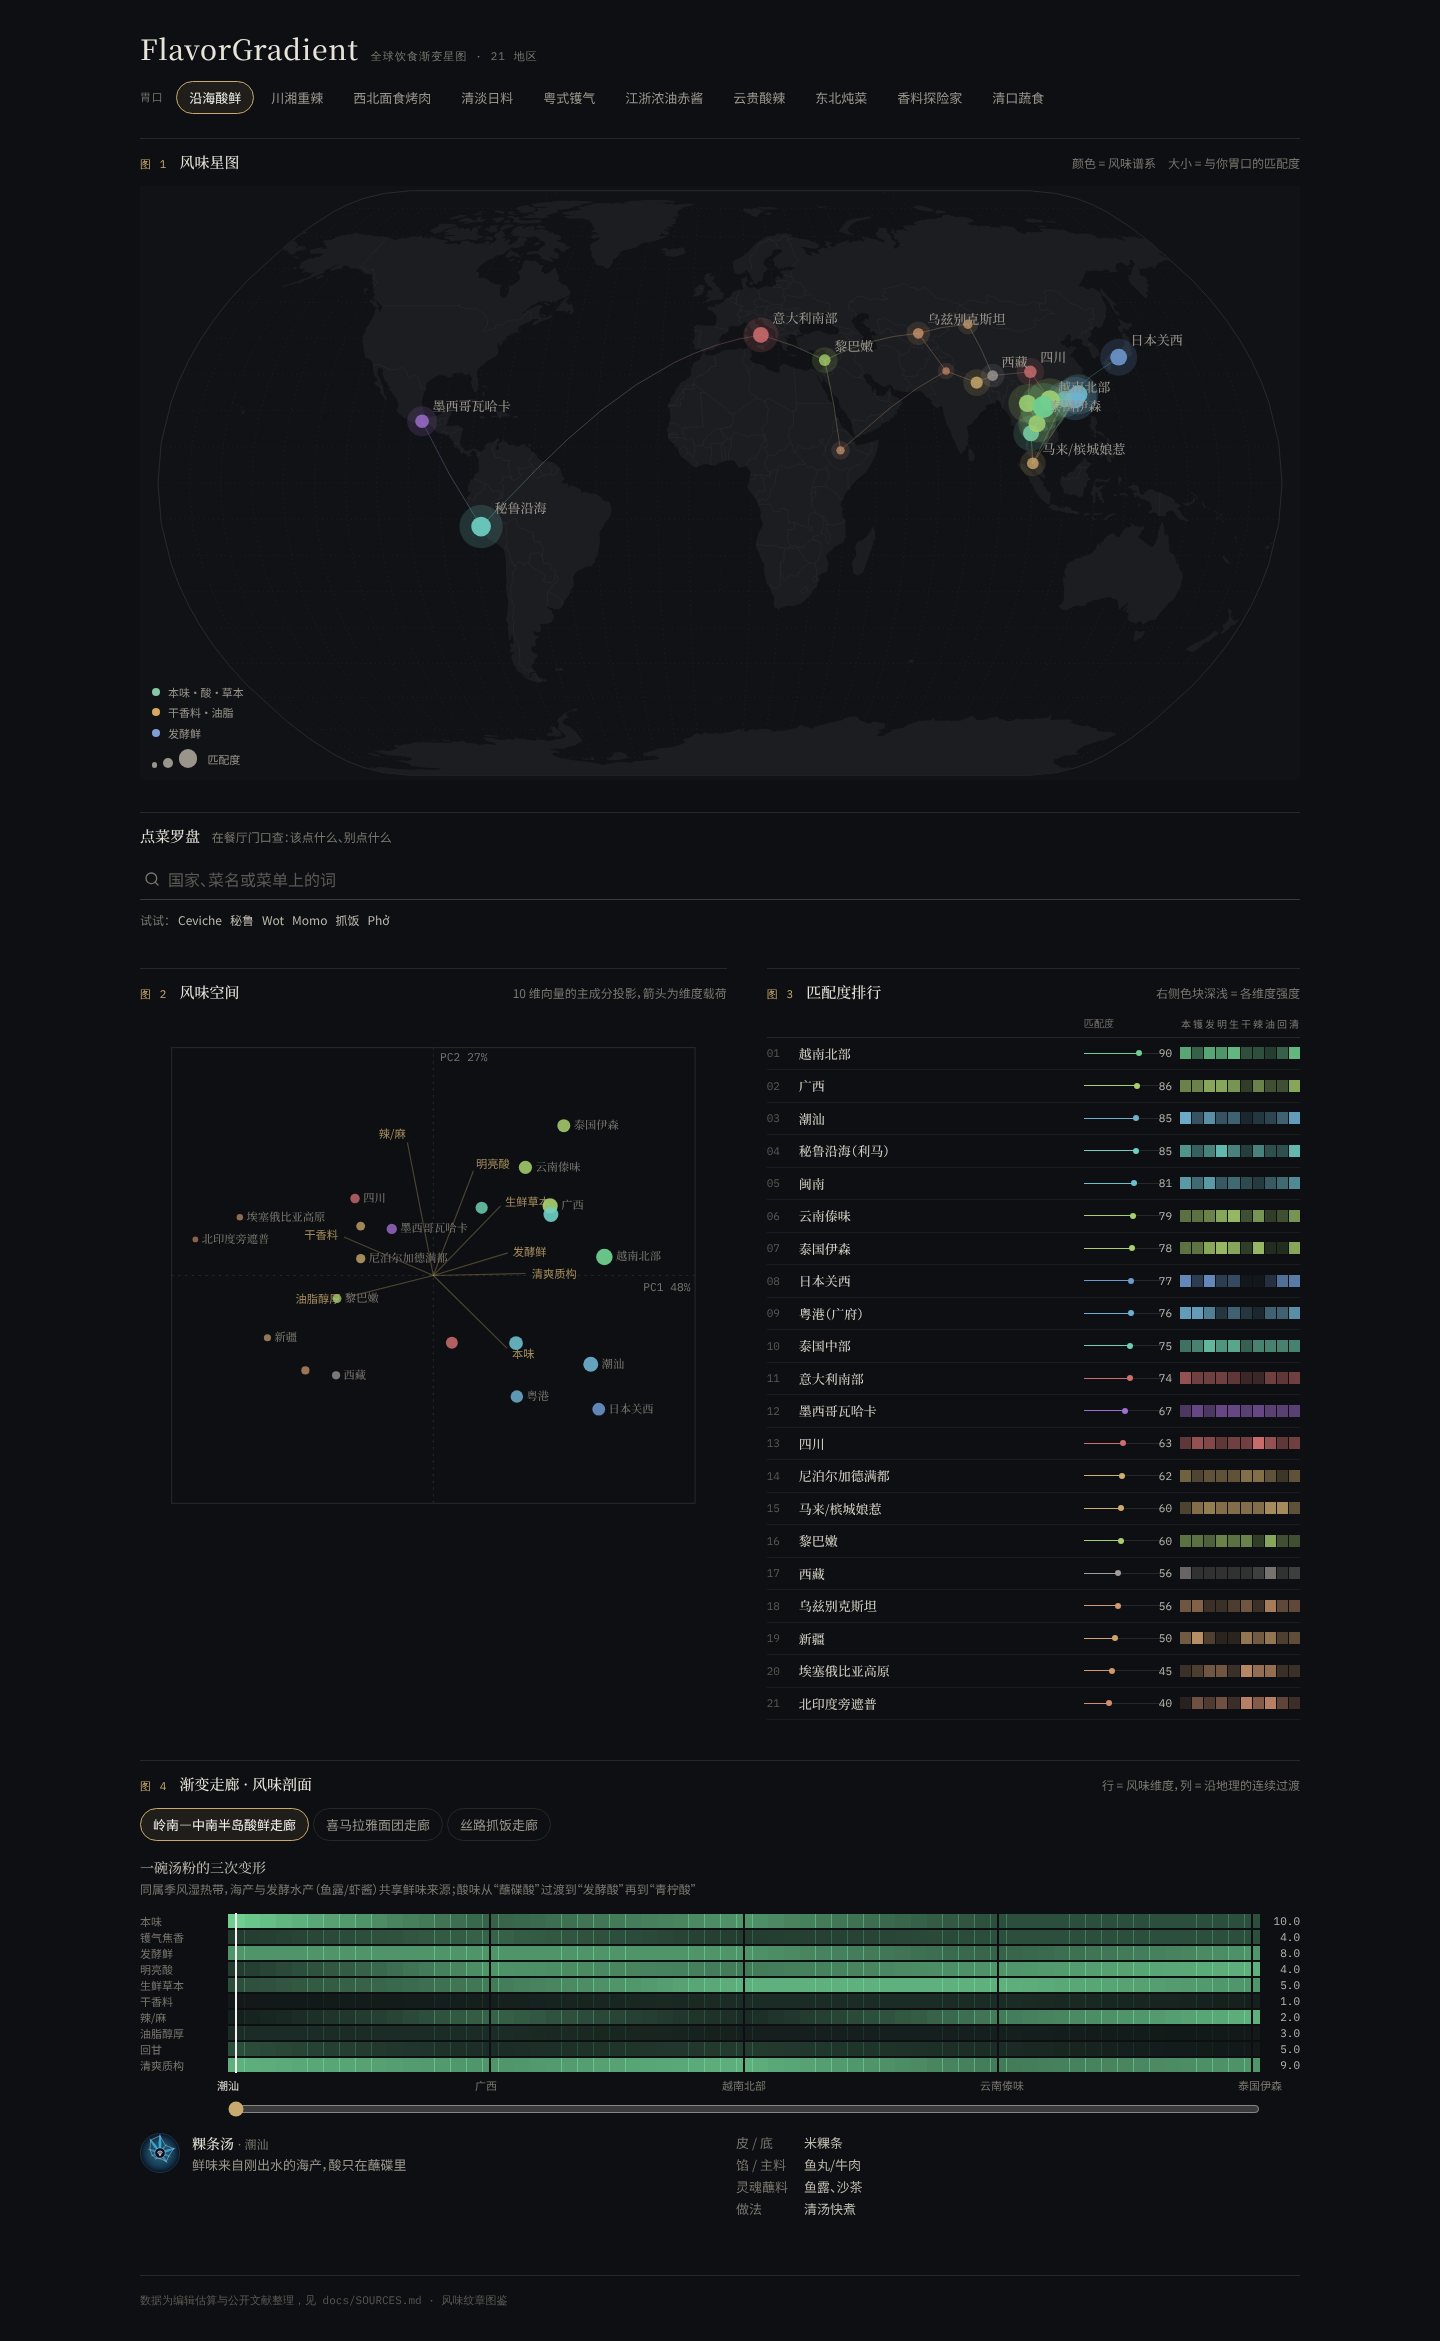
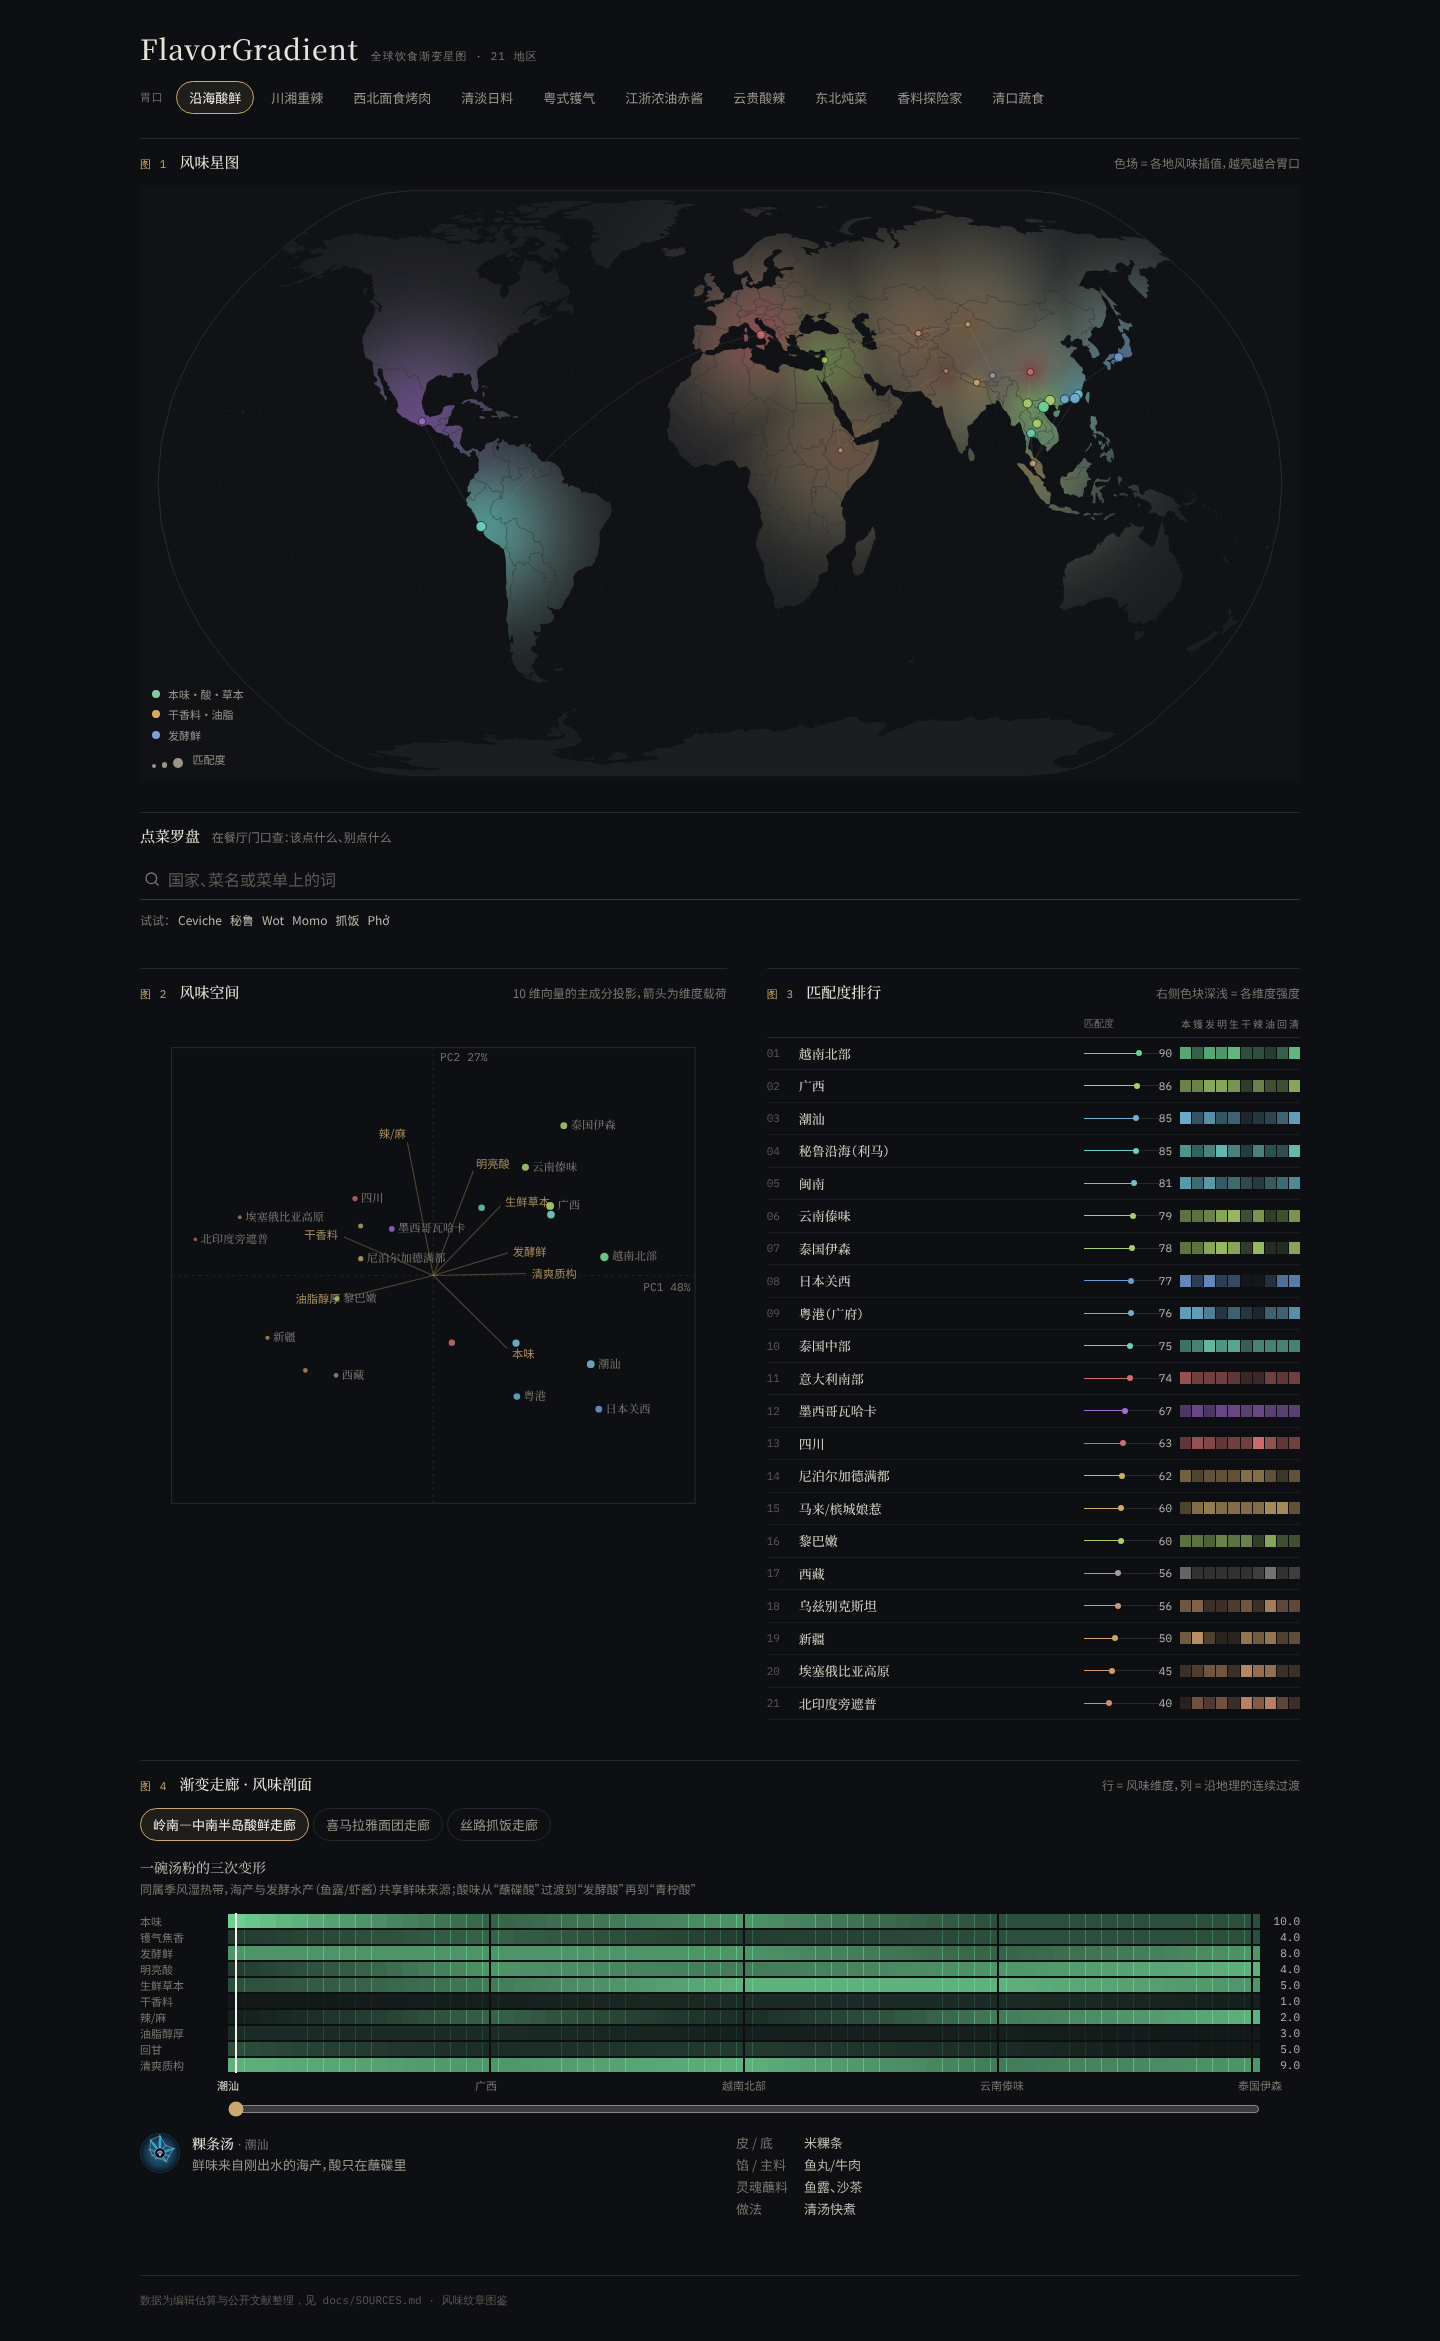
feat: add interpolated flavor gradient field to map, shrink dots and hide labels until selected
Claude-Session: https://claude.ai/code/session_01LU5Z3xEmQer5rLxphHY7Js

diff --git a/src/components/WorldMap.tsx b/src/components/WorldMap.tsx
@@ -8,6 +8,7 @@ import world from 'world-atlas/countries-110m.json';
 import type { CulinaryNode } from '../types/flavor';
 import { nodeTone } from '../lib/color';
 import { NodeDot, dotRadius } from './NodeDot';
+import { flavorField } from '../lib/field';
 
 const W = 960;
 const H = 500;
@@ -148,6 +149,31 @@ export function WorldMap({ nodes, scores, selectedId, onSelect, highlight }: Pro
     [nodes, scores],
   );
 
+  // 风味色场：颜色 = 各地风味谱系插值，亮度 = 插值后的匹配度；只画在陆地上
+  const fieldUrl = useMemo(() => {
+    const GW = W / 2;
+    const GH = H / 2;
+    const canvas = document.createElement('canvas');
+    const ctx = canvas.getContext?.('2d');
+    if (!ctx) return '';
+    canvas.width = GW;
+    canvas.height = GH;
+    const hex = (h: string) => [1, 3, 5].map((i) => parseInt(h.slice(i, i + 2), 16)) as [number, number, number];
+    const px = flavorField(
+      nodes.map((n) => {
+        const [x, y] = points.get(n.id)!;
+        return { x, y, rgb: hex(colors.get(n.id)!), strength: (scores.get(n.id) ?? 0) / 100 };
+      }),
+      GW,
+      GH,
+      2,
+    );
+    const img = ctx.createImageData(GW, GH);
+    img.data.set(px);
+    ctx.putImageData(img, 0, 0);
+    return canvas.toDataURL();
+  }, [nodes, points, colors, scores]);
+
   // 标签：按匹配度贪心放置，与已放置的标签重叠则隐藏（随缩放重新计算）
   const labels = useMemo(() => {
     const boxes: number[][] = [];
@@ -155,7 +181,7 @@ export function WorldMap({ nodes, scores, selectedId, onSelect, highlight }: Pro
     const order = [...nodes].sort((a, b) => Number(b.id === selectedId) - Number(a.id === selectedId) || (scores.get(b.id) ?? 0) - (scores.get(a.id) ?? 0));
     for (const n of order) {
       const s = scores.get(n.id) ?? 0;
-      if (route ? !route.ids.has(n.id) : s < 50 && n.id !== selectedId) continue;
+      if (route ? !route.ids.has(n.id) : n.id !== selectedId) continue;
       const [px, py] = points.get(n.id)!;
       const off = (dotRadius(s) + 3) / t.k;
       const w = (n.name.zh.replace(/（.*）/, '').length * 11) / t.k;
@@ -178,6 +204,9 @@ export function WorldMap({ nodes, scores, selectedId, onSelect, highlight }: Pro
         aria-label="全球风味节点地图"
       >
         <defs>
+          <clipPath id="land-clip">
+            <path d={LAND_D} />
+          </clipPath>
           {edges.map(({ id, a, b }) => {
             const [x1, y1] = points.get(a.id)!;
             const [x2, y2] = points.get(b.id)!;
@@ -194,10 +223,13 @@ export function WorldMap({ nodes, scores, selectedId, onSelect, highlight }: Pro
           <path d={SPHERE_D} fill="#101216" stroke="#2A2B2E" strokeWidth={0.8 / t.k} />
           <path d={GRATICULE_D} fill="none" stroke="#24262A" strokeWidth={0.5 / t.k} strokeDasharray={`${1 / t.k} ${3 / t.k}`} />
           <path d={LAND_D} fill="#1B1D21" />
+          {fieldUrl && (
+            <image href={fieldUrl} x={0} y={0} width={W} height={H} preserveAspectRatio="none" clipPath="url(#land-clip)" style={{ transition: 'opacity 400ms' }} />
+          )}
           <path d={BORDERS_D} fill="none" stroke="#2C2E32" strokeWidth={0.4 / t.k} />
           <g fill="none" strokeLinecap="round">
             {edges.map(({ id, d }) => (
-              <path key={id} d={d} stroke={`url(#edge-${id})`} strokeWidth={0.8 / t.k} strokeOpacity={route ? 0.08 : 0.35} />
+              <path key={id} d={d} stroke={`url(#edge-${id})`} strokeWidth={0.6 / t.k} strokeOpacity={route ? 0.06 : 0.22} />
             ))}
           </g>
           {route && highlight && (

diff --git a/src/lib/field.ts b/src/lib/field.ts
@@ -1,0 +1,46 @@
+/** 风味色场：在投影平面上做反距离加权（IDW）插值，生成 RGBA 像素 */
+export interface FieldSource {
+  x: number;
+  y: number;
+  rgb: [number, number, number];
+  /** 0–1：该点的强度（如匹配度），决定色场亮度 */
+  strength: number;
+}
+
+/**
+ * gw×gh 网格，每格对应投影坐标 (i*scale, j*scale)。
+ * 颜色 = 各源颜色按 1/d² 加权平均；不透明度随到最近源的距离衰减（远离数据的地方淡出），并乘以插值后的强度。
+ */
+export function flavorField(sources: FieldSource[], gw: number, gh: number, scale: number, reach = 80): Uint8ClampedArray {
+  const out = new Uint8ClampedArray(gw * gh * 4);
+  if (!sources.length) return out;
+  for (let j = 0; j < gh; j++) {
+    for (let i = 0; i < gw; i++) {
+      const x = i * scale;
+      const y = j * scale;
+      let ws = 0;
+      let r = 0;
+      let g = 0;
+      let b = 0;
+      let s = 0;
+      let dmin = Infinity;
+      for (const src of sources) {
+        const d2 = (src.x - x) ** 2 + (src.y - y) ** 2;
+        if (d2 < dmin) dmin = d2;
+        const w = 1 / (d2 + 16);
+        ws += w;
+        r += src.rgb[0] * w;
+        g += src.rgb[1] * w;
+        b += src.rgb[2] * w;
+        s += src.strength * w;
+      }
+      const fade = Math.exp(-dmin / (reach * reach));
+      const k = (j * gw + i) * 4;
+      out[k] = r / ws;
+      out[k + 1] = g / ws;
+      out[k + 2] = b / ws;
+      out[k + 3] = 255 * fade * (0.15 + 0.6 * (s / ws));
+    }
+  }
+  return out;
+}

diff --git a/src/components/NodeDot.tsx b/src/components/NodeDot.tsx
@@ -15,7 +15,7 @@ interface Props {
 }
 
 /** 匹配度 → 屏幕半径（px）：越匹配越大，低分收成细小圆点 */
-export const dotRadius = (score: number) => 2 + Math.pow(Math.max(score, 0) / 100, 2.2) * 9;
+export const dotRadius = (score: number) => 1.5 + Math.pow(Math.max(score, 0) / 100, 2.2) * 4;
 
 export function NodeDot({ node, x, y, score, color, k, selected, dimmed, onHover, onSelect }: Props) {
   const r = dotRadius(score) / k;
@@ -37,9 +37,8 @@ export function NodeDot({ node, x, y, score, color, k, selected, dimmed, onHover
       }}
     >
       <circle r={Math.max(r * 2.4, 10 / k)} fill="transparent" />
-      <circle r={r * 2.2} fill={color} opacity={0.08 + 0.12 * v} style={{ transition: 'r 600ms cubic-bezier(.2,.8,.2,1)' }} />
-      <circle r={r} fill={color} opacity={0.45 + 0.55 * v} style={{ transition: 'r 600ms cubic-bezier(.2,.8,.2,1)' }} />
-      {selected && <circle r={r + 5 / k} fill="none" stroke="#C8A96E" strokeWidth={1.2 / k} />}
+      <circle r={r} fill={color} stroke="#0D0F12" strokeWidth={0.6 / k} opacity={0.55 + 0.45 * v} style={{ transition: 'r 600ms cubic-bezier(.2,.8,.2,1)' }} />
+      {selected && <circle r={r + 4 / k} fill="none" stroke="#C8A96E" strokeWidth={1.2 / k} />}
     </g>
   );
 }

diff --git a/src/lib/field.test.ts b/src/lib/field.test.ts
@@ -1,0 +1,27 @@
+import { describe, expect, it } from 'vitest';
+import { flavorField } from './field';
+
+describe('flavorField', () => {
+  const src = [
+    { x: 0, y: 0, rgb: [255, 0, 0] as [number, number, number], strength: 1 },
+    { x: 100, y: 0, rgb: [0, 0, 255] as [number, number, number], strength: 0 },
+  ];
+  const f = flavorField(src, 11, 11, 10);
+  const px = (i: number, j: number) => Array.from(f.slice((j * 11 + i) * 4, (j * 11 + i) * 4 + 4));
+
+  it('靠近源取源色，中点为混色', () => {
+    expect(px(0, 0)[0]).toBeGreaterThan(240);
+    expect(px(10, 0)[2]).toBeGreaterThan(240);
+    const mid = px(5, 0);
+    expect(Math.abs(mid[0] - mid[2])).toBeLessThan(2);
+  });
+
+  it('强度高的源更不透明，远离源淡出', () => {
+    expect(px(0, 0)[3]).toBeGreaterThan(px(10, 0)[3]);
+    expect(px(5, 10)[3]).toBeLessThan(px(5, 0)[3]);
+  });
+
+  it('无源时全透明', () => {
+    expect(flavorField([], 2, 2, 1).every((v) => v === 0)).toBe(true);
+  });
+});

diff --git a/src/App.tsx b/src/App.tsx
@@ -56,7 +56,7 @@ function AtlasPage() {
         <PresetSwitcher presets={PRESETS} value={presetId} onChange={setPresetId} />
       </header>
 
-      <Figure no={1} title="风味星图" note="颜色 = 风味谱系　大小 = 与你胃口的匹配度">
+      <Figure no={1} title="风味星图" note="色场 = 各地风味插值，越亮越合胃口">
         <WorldMap nodes={NODES} scores={scores} selectedId={selected?.id ?? null} onSelect={setSelected} highlight={highlight} />
       </Figure>
 
